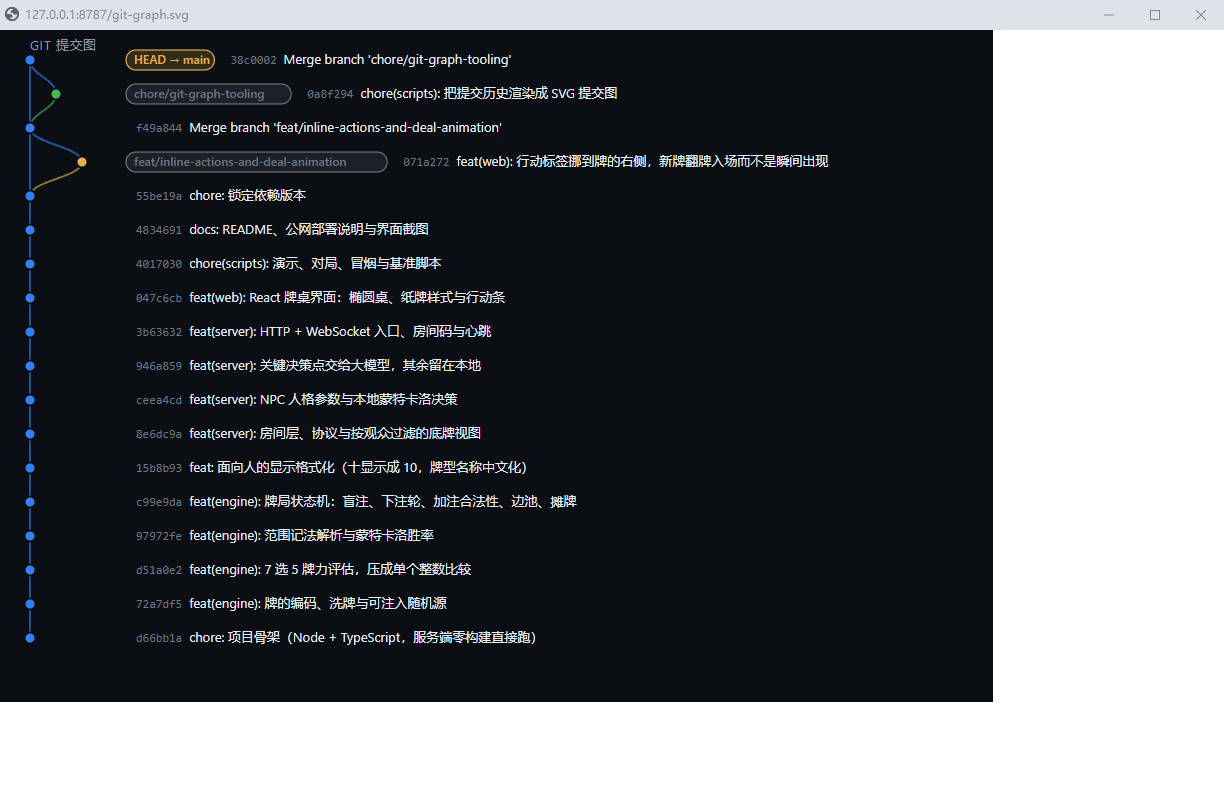
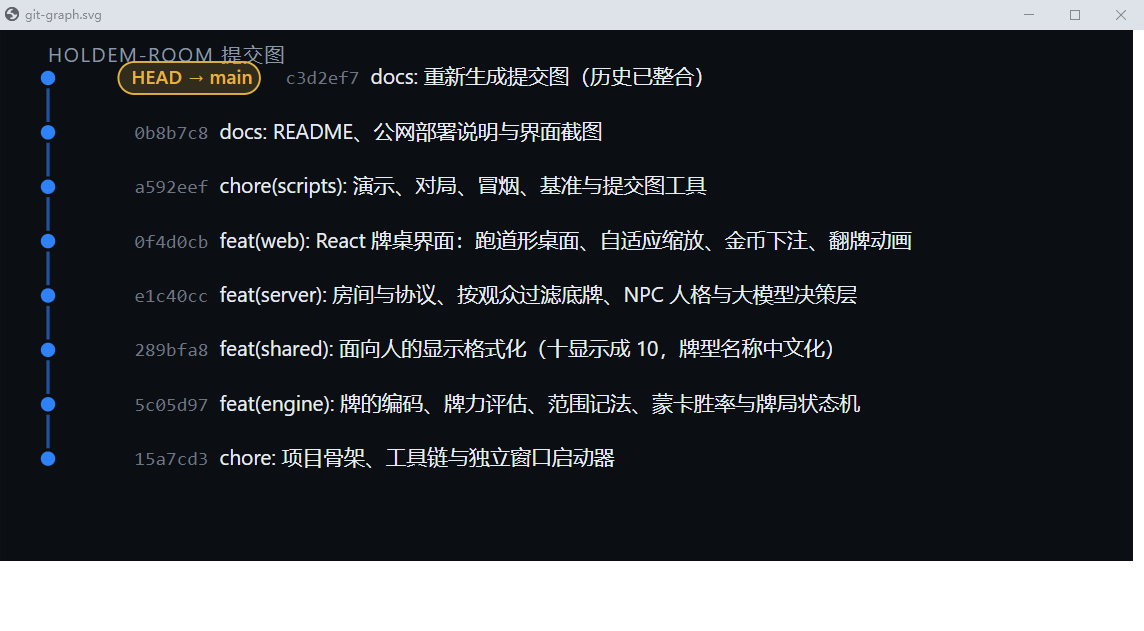
fix(scripts): 提交图按视口宽度缩放，别在窗口里缩成一小块；并换上与新历史匹配的 PNG

Changed region(s): [[0.0, 0.0, 1.0, 0.9033]]

diff --git a/scripts/git-graph.ts b/scripts/git-graph.ts
@@ -153,8 +153,9 @@ export function renderGraph(commits: readonly Commit[], columns: Map<string, num
   const parts: string[] = [];
   parts.push(
     `<svg xmlns="http://www.w3.org/2000/svg" width="${width}" height="${height}" viewBox="0 0 ${width} ${height}" ` +
-      // Natural size, but never wider than the window it is opened in.
-      `style="max-width:100%;height:auto" ` +
+      // Scale to whatever it is opened in, keeping the viewBox ratio: a fixed
+      // pixel size renders as a small block in the corner of a big window.
+      `style="width:100%;height:auto;max-width:${Math.round(width * 1.6)}px" ` +
       `font-family="ui-sans-serif, -apple-system, 'Segoe UI', 'Microsoft YaHei', sans-serif">`,
   );
   parts.push(`<rect width="${width}" height="${height}" fill="#0b0f14"/>`);
